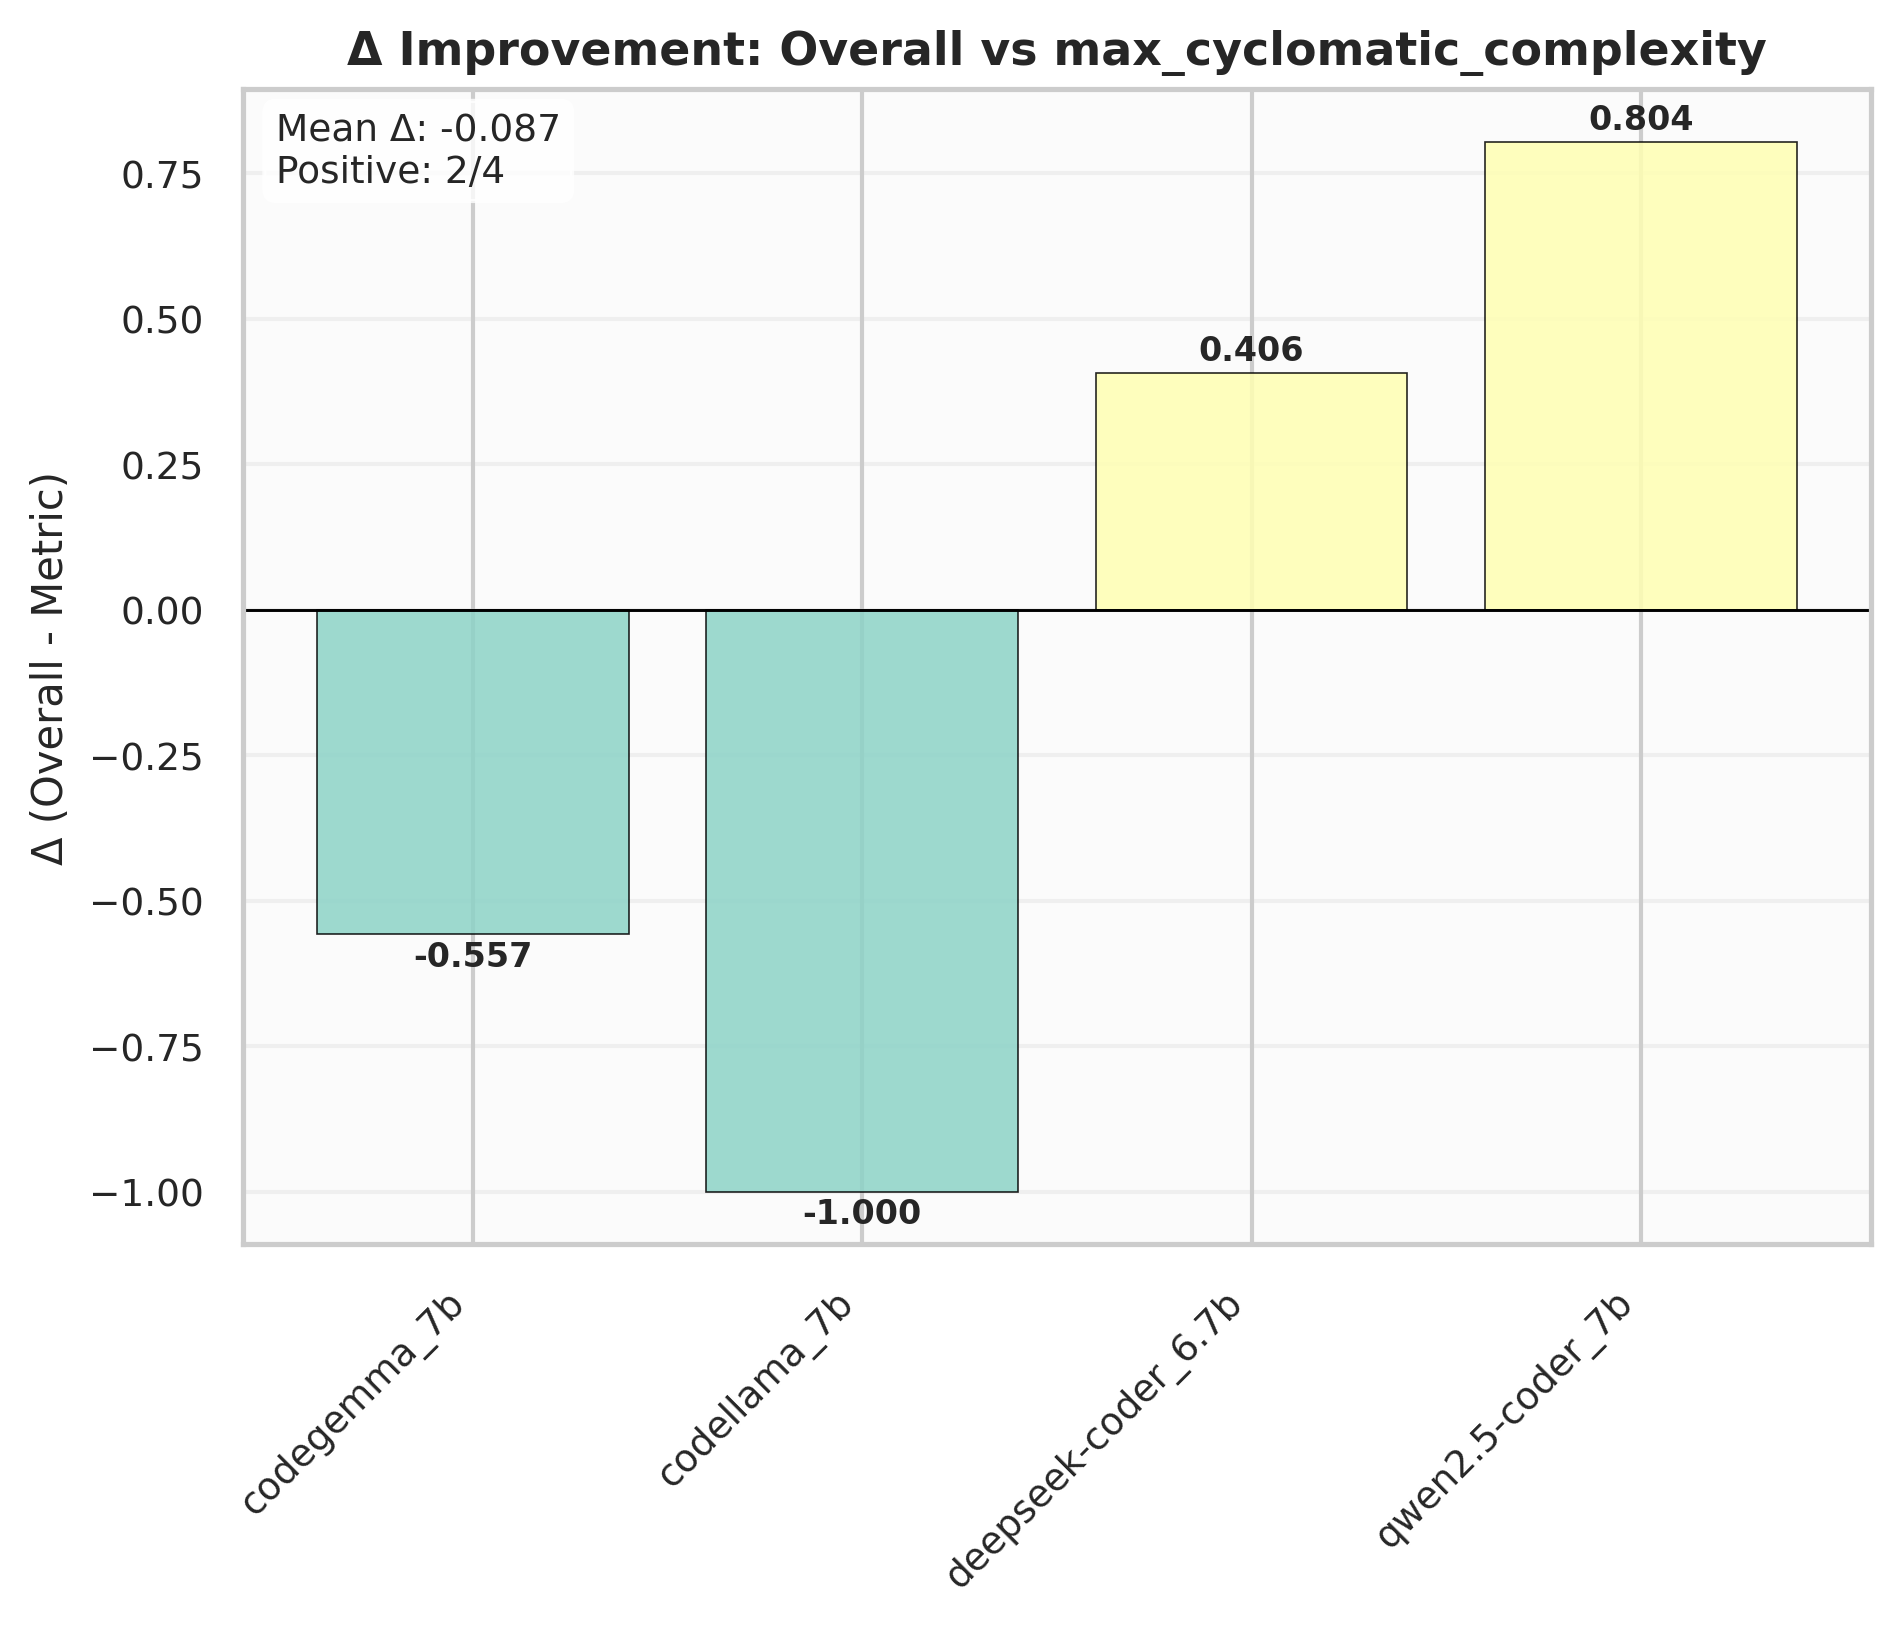
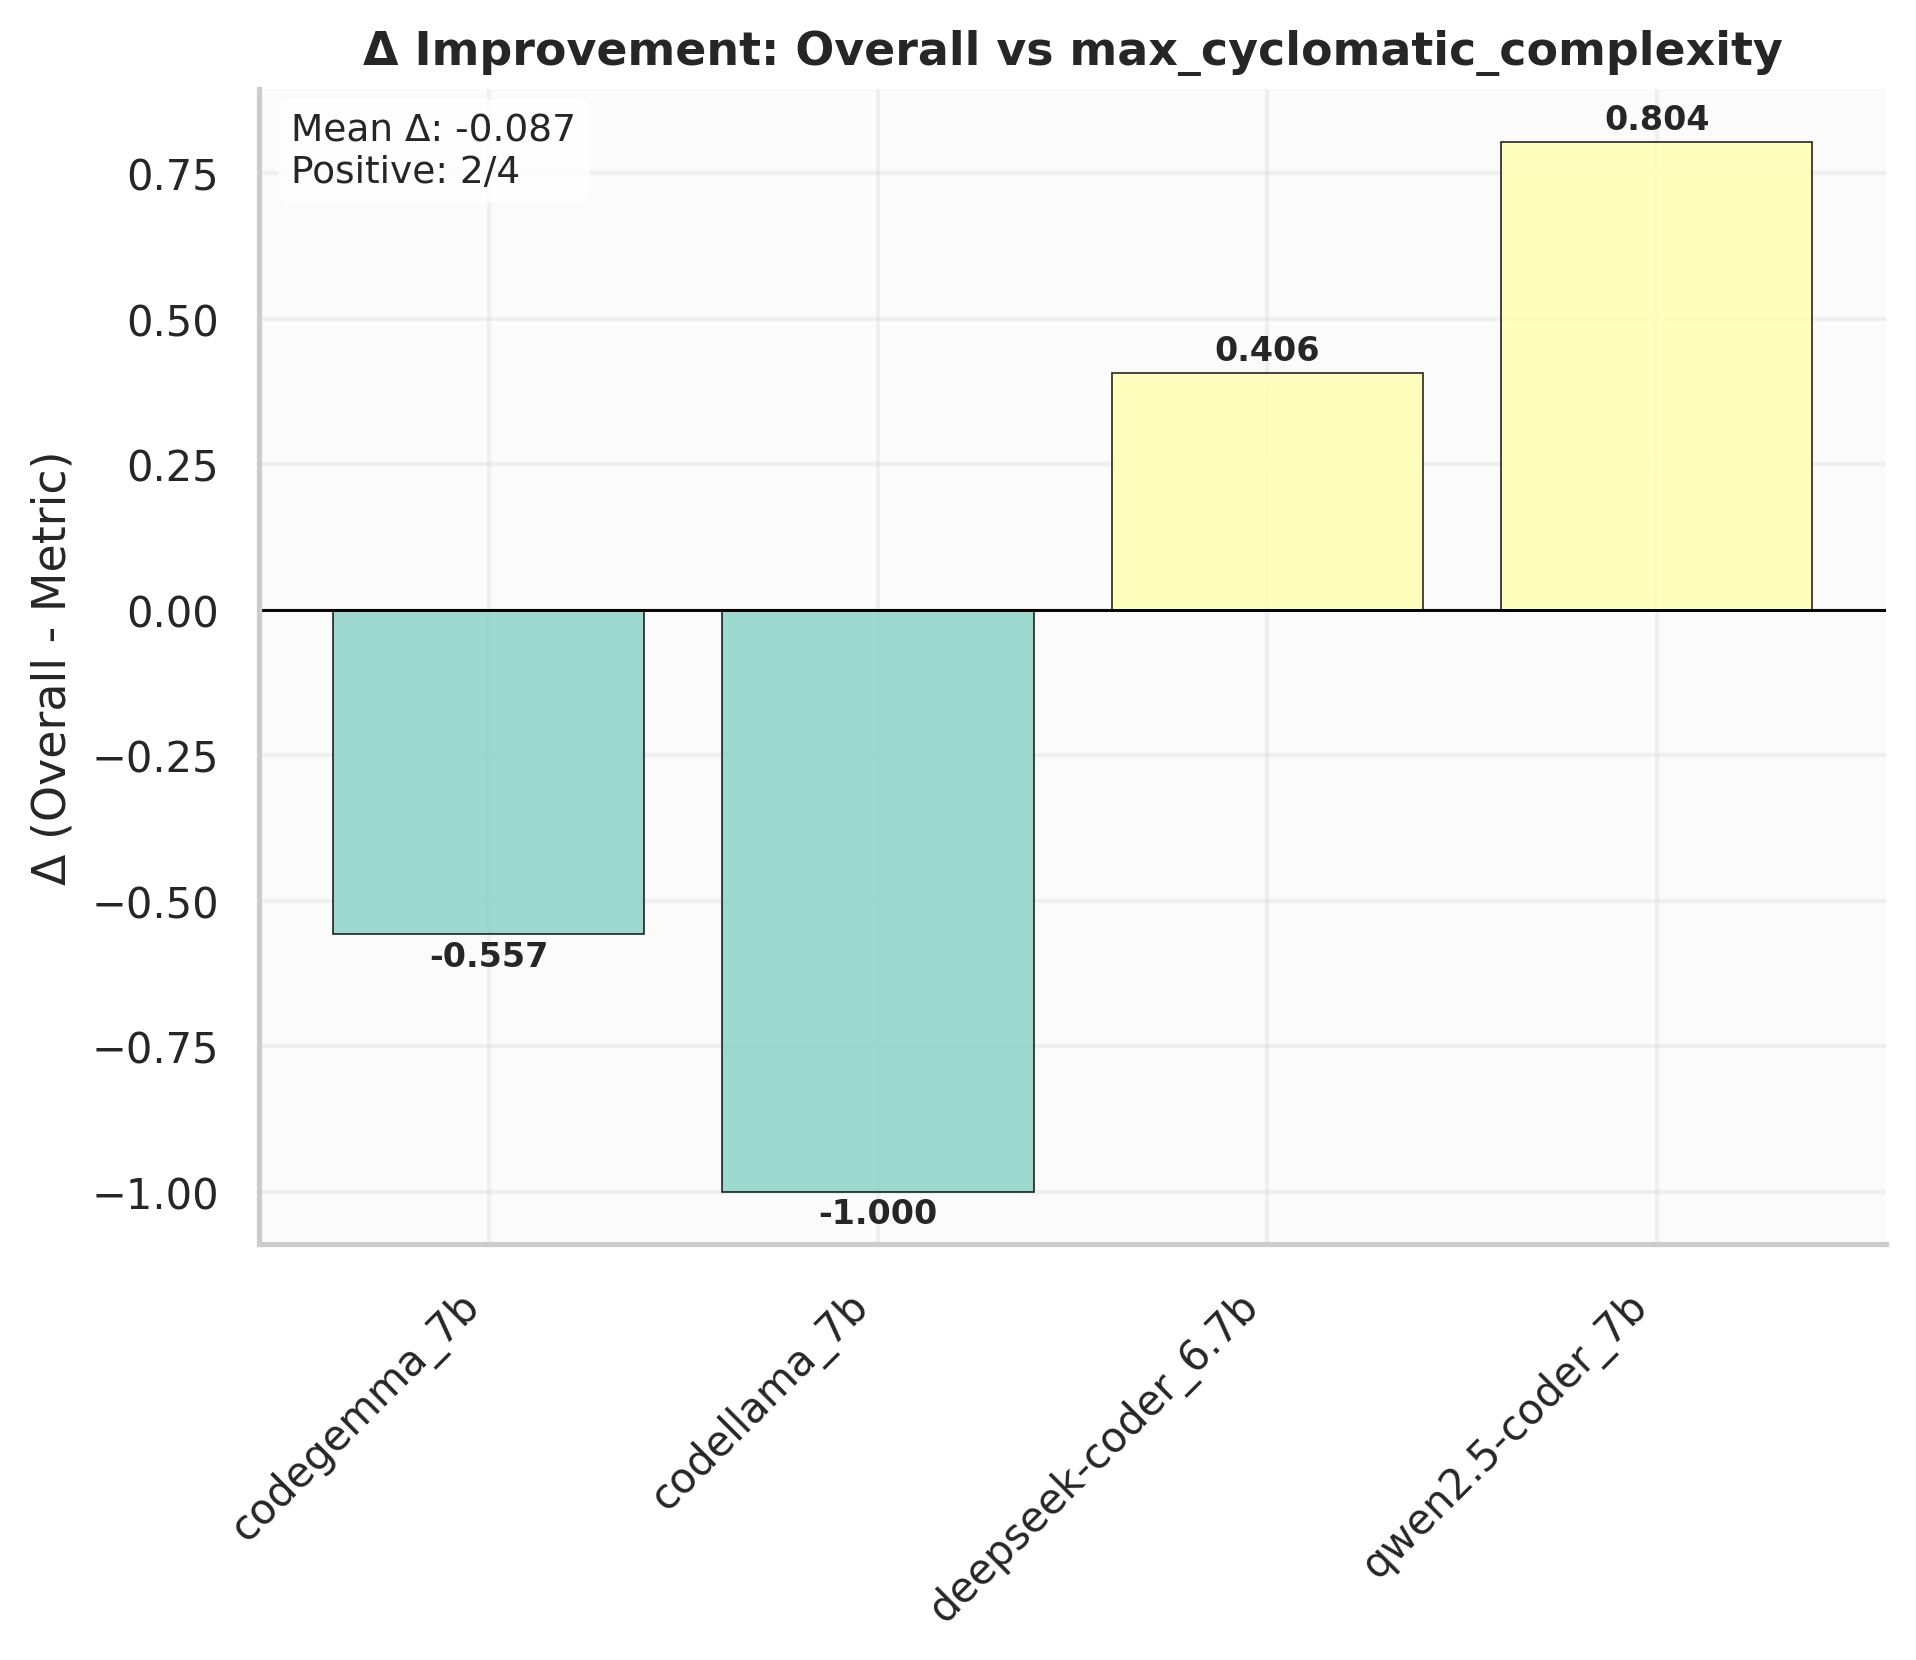
Added heatmap coloring,
improved per model scatter function for better memory handling.

diff --git a/scripts/overall_score.py b/scripts/overall_score.py
@@ -21,15 +21,31 @@ PREFERRED_METRICS = [
     "loc_score",
 ]
 
-# Theme
-sns.set_theme(style="whitegrid", palette="Set3", font_scale=1.3, font="sans-serif", rc={
-    "figure.figsize": (10, 5),
-    "axes.titlesize": 11,
-    "axes.labelsize": 10,
-    "xtick.labelsize": 9,
-    "ytick.labelsize": 9,
-    "legend.fontsize": 9
+#theme
+sns.set_theme(style="whitegrid", rc={
+    "axes.spines.right": False,
+    "axes.spines.top": False,
+    "figure.figsize": (10, 5.5),
+    "axes.titlesize": 13,
+    "axes.labelsize": 11,
+    "xtick.labelsize": 10,
+    "ytick.labelsize": 10,
+    "legend.fontsize": 10,
+    "grid.alpha": 0.25,
 })
+
+# Beautiful red → green divergent palette (12 steps)
+divergent_cmap = sns.diverging_palette(
+    h_neg=355,   # red
+    h_pos=130,   # green
+    s=90, l=55,
+    sep=10,
+    n=12,
+    center="light"
+)
+
+sns.set_palette(divergent_cmap)
+plt.rcParams['axes.prop_cycle'] = plt.cycler(color=divergent_cmap)
 
 
 def load_summary_files(pattern: str) -> pd.DataFrame:
@@ -380,75 +396,189 @@ def _plot_delta_core(ax, model_stats_norm, metric, model_color_map):
 
 def plot_per_model_scatter(df: pd.DataFrame, output_root: Path, metrics: list):
     """
-    For each model, create a vertical stack of scatter plots (overall_score vs each metric).
-    Saves one image per model in output_root/<model>/scatter_overall_vs_metrics.png
+    Memory-efficient version: processes one model at a time and aggressively frees memory.
     """
     if df.empty:
         print("No data available to plot per-model scatter.")
         return
 
     models = sorted(df["model"].unique())
-    print(f"Generating plots for models: {models}")
+    print(f"Generating per-model scatter plots for {len(models)} models...")
 
-    for model in models:
+    for idx, model in enumerate(models, 1):
+        print(f"  [{idx}/{len(models)}] Processing model: {model}", end="")
+
         df_model = df[df["model"] == model].copy()
         if df_model.empty:
+            print(" -> skipped (empty)")
             continue
 
         available_metrics = [m for m in metrics if m in df_model.columns]
         if "overall_score" not in df_model.columns or not available_metrics:
-            print(f"Skipping model '{model}': insufficient columns")
+            print(" -> skipped (missing columns)")
             continue
 
         df_model["overall_score"] = sanitize_series(df_model["overall_score"])
         df_model = df_model.dropna(subset=["overall_score"])
         if df_model.empty:
-            print(f"Skipping model '{model}': no valid overall_score values")
+            print(" -> skipped (no valid scores)")
             continue
 
         n = len(available_metrics)
-        fig, axes = plt.subplots(nrows=n, ncols=1, figsize=(10, 3 * n), squeeze=False)
+        fig, axes = plt.subplots(nrows=n, ncols=1, figsize=(9, 2.7 * n), squeeze=False)
+        fig.suptitle(f"{model} — Overall Score vs Individual Metrics", fontsize=14, y=0.98)
 
+        any_plotted = False
         for i, metric in enumerate(available_metrics):
             ax = axes[i, 0]
             series_metric = sanitize_series(df_model[metric])
-            plot_df = pd.DataFrame({"overall_score": df_model["overall_score"], metric: series_metric}).dropna()
+            plot_df = pd.DataFrame({
+                "overall_score": df_model["overall_score"],
+                metric: series_metric
+            }).dropna()
+
             if plot_df.empty:
                 ax.set_visible(False)
                 continue
 
+            any_plotted = True
             x = plot_df[metric].values
             y = plot_df["overall_score"].values
 
-            # Jitter if discrete
-            if np.issubdtype(plot_df[metric].dtype, np.number) and len(np.unique(np.round(x, 6))) < 15:
-                jitter = (np.random.rand(len(x)) - 0.5) * (np.ptp(x) * 0.02 + 1e-6)
+            # Light jitter only if needed
+            if len(np.unique(np.round(x, 5))) < 20:
+                jitter = np.random.uniform(-0.02, 0.02, size=len(x)) * (x.ptp() or 1)
                 x = x + jitter
 
-            ax.scatter(x, y, alpha=0.75, edgecolors="none")
-            ax.set_xlabel(metric)
-            ax.set_ylabel("overall_score")
-            ax.set_title(f"{model}: overall_score vs {metric}", fontsize=10)
+            ax.scatter(x, y, alpha=0.65, s=30, edgecolor="none", color=sns.color_palette("Set3")[i % 12])
+            ax.set_xlabel(metric.replace("_", " ").title())
+            ax.set_ylabel("Overall Score")
+            ax.grid(True, alpha=0.25)
 
-            # Trend line if enough points
+            # Trend line
             if len(x) >= 3:
                 try:
                     m, b = np.polyfit(x, y, 1)
-                    xs = np.linspace(np.min(x), np.max(x), 100)
-                    ax.plot(xs, m * xs + b, linestyle="--", linewidth=1)
-                except Exception:
+                    ax.plot(np.linspace(x.min(), x.max(), 100), m * np.linspace(x.min(), x.max(), 100) + b,
+                            "--", color="red", linewidth=1.2, alpha=0.8)
+                except:
                     pass
 
-            ax.grid(True, alpha=0.25)
+        if not any_plotted:
+            plt.close(fig)
+            print(" -> no valid data")
+            continue
 
-        plt.tight_layout()
-        model_out_dir = output_root / model
+        plt.tight_layout(rect=[0, 0, 1, 0.96])
+
+        model_out_dir = output_root / "per_model_scatters" / model
         model_out_dir.mkdir(parents=True, exist_ok=True)
         out_file = model_out_dir / "scatter_overall_vs_metrics.png"
-        fig.savefig(out_file, dpi=300, bbox_inches="tight")
-        plt.close(fig)
-        print(f"Saved scatter plot for model '{model}' -> {out_file}")
 
+        fig.savefig(out_file, dpi=200, bbox_inches="tight")  # Reduced DPI = huge memory savings
+        plt.close(fig)  # Critical: free memory immediately
+        print(f" -> saved ({len(df_model)} points)")
+
+        # Explicit garbage collection every few models
+        if idx % 5 == 0:
+            import gc
+            gc.collect()
+
+    print("All per-model scatter plots completed safely!")
+
+def plot_metrics_heatmap(df: pd.DataFrame, metrics: list = None, output_dir: Path = OUTPUT_DIR):
+    """
+    Heatmap that inherits the current global divergent palette (red → green).
+    overall_score = always first column.
+    """
+    if df.empty:
+        print("No data to plot heatmap.")
+        return
+
+    if metrics is None:
+        metrics = PREFERRED_METRICS
+
+    # 1. Desired column order – overall_score always first
+    desired_columns = ["overall_score"]
+    for m in metrics:
+        if m != "overall_score" and m in df.columns:
+            desired_columns.append(m)
+
+    available_cols = [c for c in desired_columns if c in df.columns]
+    if not available_cols:
+        print("None of the requested metrics found.")
+        return
+
+    # 2. One row per model (mean if multiple runs)
+    heatmap_data = df.pivot_table(
+        index="model",
+        values=available_cols,
+        aggfunc="mean"
+    )[available_cols]  # enforce order
+
+    # Sort models by overall_score descending
+    if "overall_score" in heatmap_data.columns:
+        heatmap_data = heatmap_data.sort_values(by="overall_score", ascending=False)
+
+    # 3. Normalize 0–1 (invert low-is-better metrics)
+    normalized = heatmap_data.copy()
+    for col in normalized.columns:
+        mn, mx = normalized[col].min(), normalized[col].max()
+        if mx == mn:
+            normalized[col] = 0.5
+            continue
+        if "cyclomatic_complexity" in col.lower() or col == "loc_score":
+            normalized[col] = (mx - normalized[col]) / (mx - mn)   # lower → better
+        else:
+            normalized[col] = (normalized[col] - mn) / (mx - mn)
+
+    # 4. Colormap – reuse the global divergent palette as a continuous cmap
+    try:
+        # `divergent_cmap` is the global 12-color red→green palette defined at the top.
+        cmap = sns.color_palette(divergent_cmap, as_cmap=True)
+    except Exception:
+        # Very safe fallback if something goes wrong
+        cmap = "RdYlGn"
+
+    # 5. Plot
+    plt.figure(figsize=(len(available_cols) * 1.3 + 2, max(4.5, len(heatmap_data) * 0.65)))
+
+    ax = sns.heatmap(
+        normalized,
+        annot=heatmap_data.round(3),
+        fmt="",
+        cmap=cmap,
+        center=0.5,
+        linewidths=1,
+        linecolor="white",
+        cbar_kws={"shrink": 0.8, "label": "Normalized Performance (0 = worst → 1 = best)"},
+        annot_kws={"size": 10.5, "weight": "bold"}
+    )
+
+    # Pretty labels
+    label_mapping = {
+        "overall_score": "Overall Score",
+        "functional_correctness": "Func. Correctness",
+        "efficiency_score": "Efficiency",
+        "avg_cyclomatic_complexity": "Avg Cyclomatic",
+        "max_cyclomatic_complexity": "Max Cyclomatic",
+        "style_score": "Code Style",
+        "loc_score": "LOC Score",
+    }
+    pretty = [label_mapping.get(c, c.replace("_", " ").title()) for c in available_cols]
+    ax.set_xticklabels(pretty, rotation=45, ha="right")
+
+    plt.title("Model Performance Heatmap\n(Green = Best | Red = Worst | Overall Score = Leftmost)",
+              fontsize=15, fontweight="bold", pad=25)
+    plt.ylabel("Model", fontsize=12)
+    plt.xlabel("")
+    plt.yticks(rotation=0)
+    plt.tight_layout()
+
+    out_path = output_dir / "model_metrics_heatmap.png"
+    plt.savefig(out_path, dpi=300, bbox_inches="tight")
+    print(f"Heatmap saved → {out_path}")
+    plt.close()
 
 if __name__ == "__main__":
     df_all = load_summary_files(SUMMARY_GLOB)
@@ -457,5 +587,6 @@ if __name__ == "__main__":
     plot_rank_concordance(df_all, OUTPUT_DIR, PREFERRED_METRICS)
     plot_delta_improvement(df_all, OUTPUT_DIR, PREFERRED_METRICS)
     plot_per_model_scatter(df_all, OUTPUT_DIR, PREFERRED_METRICS)
+    plot_metrics_heatmap(df_all, PREFERRED_METRICS, OUTPUT_DIR)
 
     print("All plots generated successfully!")
